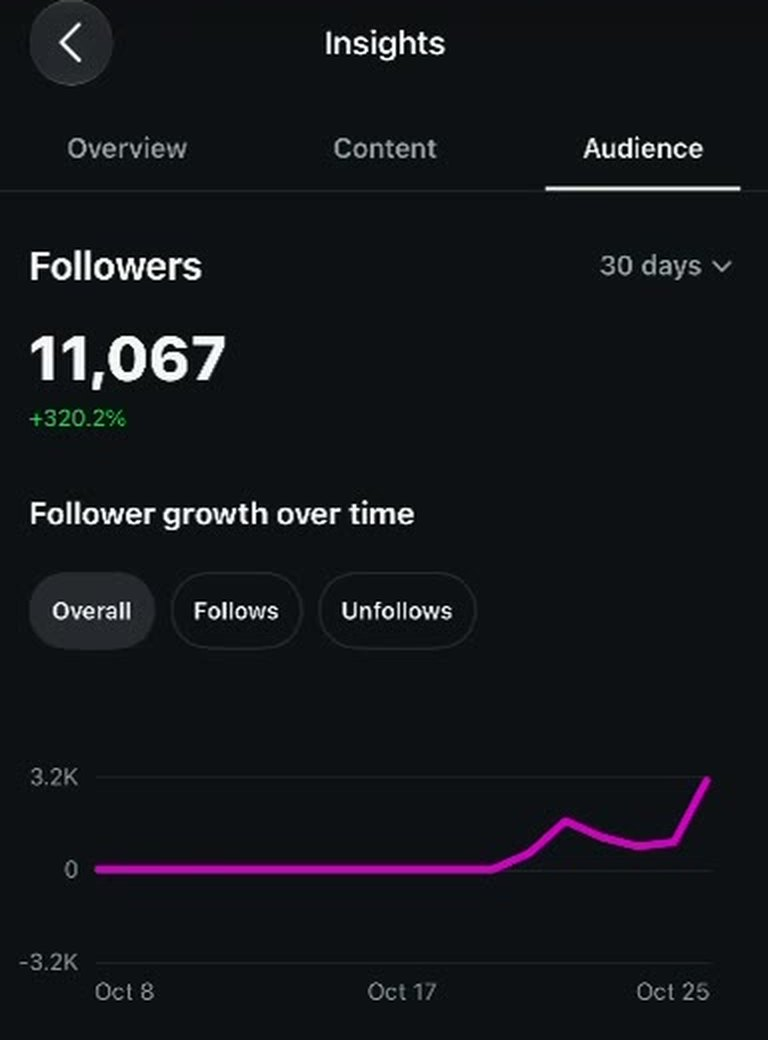
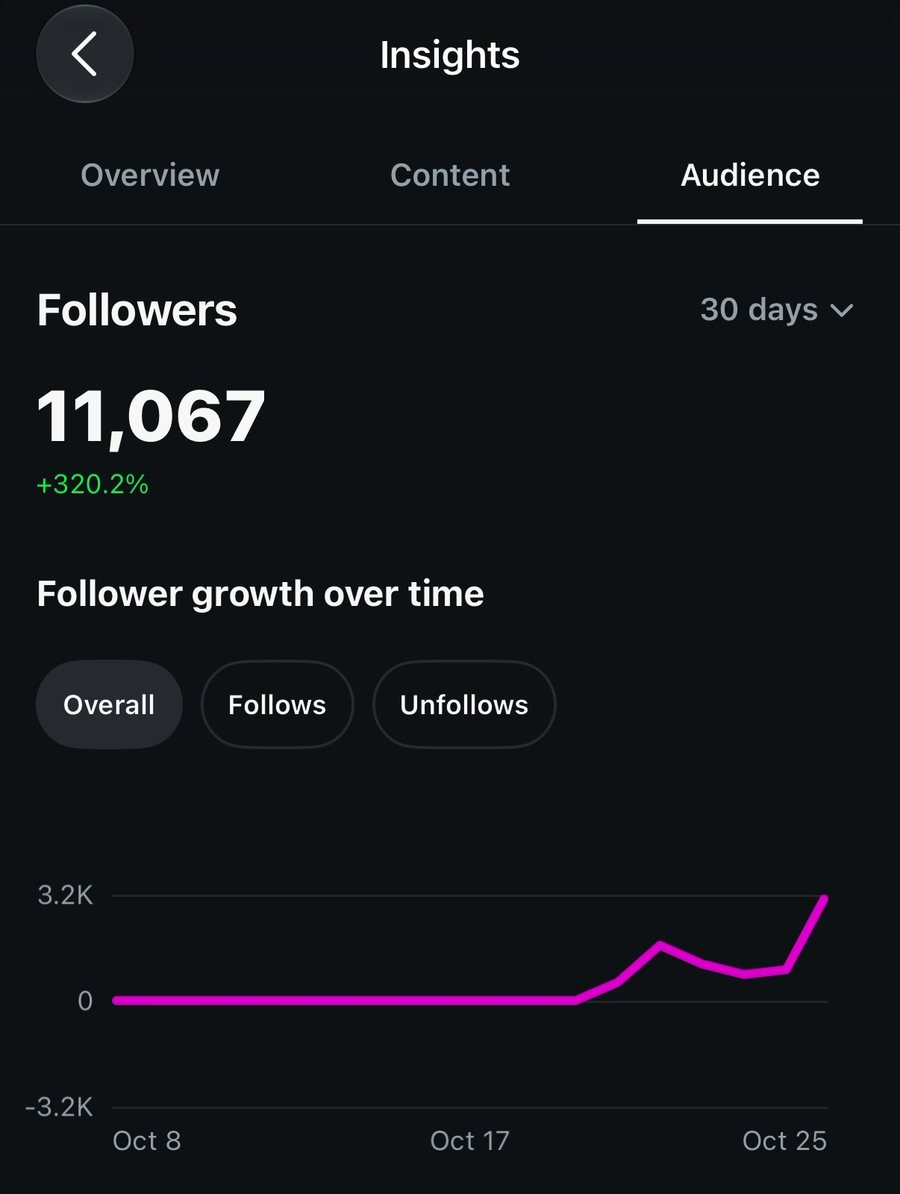
Proof: sharp insights and reels-grid screenshots

diff --git a/index.html b/index.html
@@ -62,9 +62,9 @@
       <h3 class="receipts-h rv">Every number, as Instagram shows it.</h3>
       <p class="lead rv">The account's insights, each reel's views and each poll's votes, screenshotted on 26 and 27&nbsp;October. Tap one to see it full size.</p>
       <ul class="wall">
-        <li class="rv"><a href="assets/proof/insights_views.jpg"><img src="assets/proof/insights_views.jpg" width="768" height="1576" loading="lazy" alt="Instagram insights for @yourtrainerarc, last 30 days: 1,490,787 views, net followers plus 8,433, 471,654 viewers. Reels 1.4 million views, Stories 69K."></a><p><b>1,490,787 views</b> and <b>471,654 people</b> reached</p></li>
-        <li class="rv"><a href="assets/proof/views_reels.jpg"><img src="assets/proof/views_reels.jpg" width="768" height="1400" loading="lazy" alt="The Your Trainer Arc reels grid on Instagram on 27 October: Part 1 308K views, Part 2 207K, Part 3 165K, Part 4 119K, Part 5 137K, Part 6 97.2K, Part 7 80.2K, and the story-so-far recap 23.2K."></a><p><b>1.11M views</b> on the seven main reels</p></li>
-        <li class="rv"><a href="assets/proof/insights_followers.jpg"><img src="assets/proof/insights_followers.jpg" width="768" height="1040" loading="lazy" alt="Instagram insights, Audience: 11,067 followers."></a><p><b>11,067 followers</b></p></li>
+        <li class="rv"><a href="assets/proof/insights_views.jpg"><img src="assets/proof/insights_views.jpg" width="900" height="1791" loading="lazy" alt="Instagram insights for @yourtrainerarc, last 30 days: 1,490,787 views, net followers plus 8,433, 471,654 viewers. Reels 1.4 million views, Stories 69K."></a><p><b>1,490,787 views</b> and <b>471,654 people</b> reached</p></li>
+        <li class="rv"><a href="assets/proof/views_reels.jpg"><img src="assets/proof/views_reels.jpg" width="900" height="1552" loading="lazy" alt="The Your Trainer Arc reels grid on Instagram on 27 October: Part 1 308K views, Part 2 207K, Part 3 165K, Part 4 119K, Part 5 137K, Part 6 97.2K, Part 7 80.2K, and the story-so-far recap 23.2K."></a><p><b>1.11M views</b> on the seven main reels</p></li>
+        <li class="rv"><a href="assets/proof/insights_followers.jpg"><img src="assets/proof/insights_followers.jpg" width="900" height="1194" loading="lazy" alt="Instagram insights, Audience: 11,067 followers."></a><p><b>11,067 followers</b></p></li>
         <li class="rv"><a href="assets/proof/views_trial.jpg"><img src="assets/proof/views_trial.jpg" width="920" height="671" loading="lazy" alt="Instagram trial reels: Part 1 234K views, Part 2 42.6K, Part 3 8,473."></a><p><b>285K views</b> on three trial reels</p></li>
         <li class="rv"><a href="assets/proof/vote_p1.jpg"><img src="assets/proof/vote_p1.jpg" width="920" height="593" loading="lazy" alt="Part 1 poll on Instagram: 14.4K responses."></a><p><b>14.4K votes</b> on Part 1</p></li>
         <li class="rv"><a href="assets/proof/vote_p1t.jpg"><img src="assets/proof/vote_p1t.jpg" width="920" height="593" loading="lazy" alt="Poll on a second Part 1 post: 10.7K responses."></a><p><b>10.7K votes</b> on a second Part 1 post</p></li>
